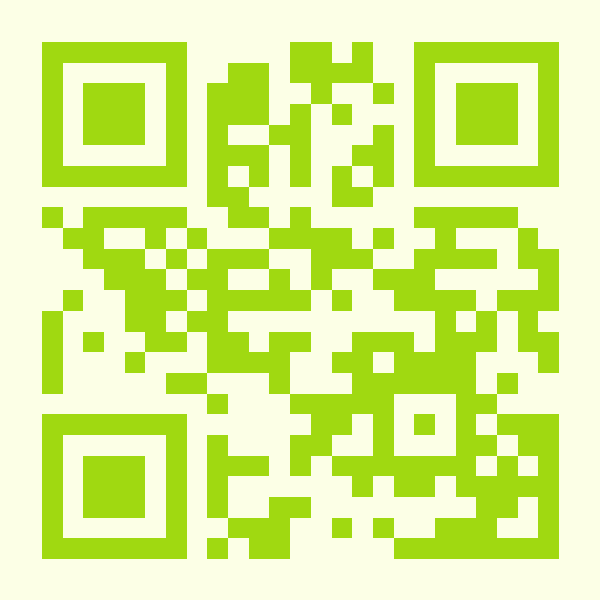
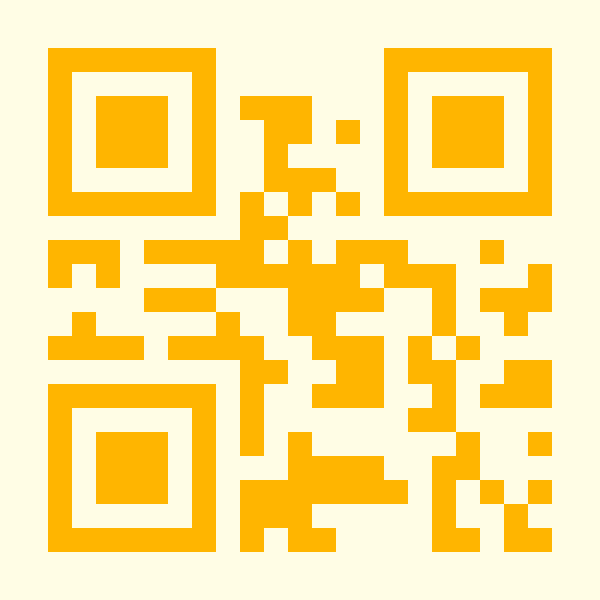
Update the theme

diff --git a/src/App.js b/src/App.js
@@ -50,9 +50,10 @@ function App() {
       <ConfigProvider
         theme={{
           token: {
-            colorPrimary: "#a0d911",
+            colorPrimary: "#FFF100",
             borderRadius: 8,
-            colorBgContainer: "#fcffe6",
+            colorBgContainer: "#fffde5",
+            colorTextLightSolid: "#333",
           },
           algorithm: theme.lightAlgorithm,
         }}
@@ -67,7 +68,7 @@ function App() {
               alt="QR Code Logo"
               style={{
                 height: 40,
-                marginRight: 16,
+                marginRight: 10,
                 background: "#fff",
                 borderRadius: 8,
                 padding: 4,
@@ -89,7 +90,7 @@ function App() {
           <Footer
             style={{
               textAlign: "center",
-              background: "#fcffe6",
+              background: "#fffde5",
               color: "#888",
             }}
           >

diff --git a/src/App.css b/src/App.css
@@ -1,9 +1,11 @@
+@import url("https://fonts.googleapis.com/css2?family=Press+Start+2P&display=swap");
+
 .App .layout {
   min-height: 100vh;
 }
 .App .header {
   text-align: left;
-  background-color: #a0d911;
+  background-color: #fff100;
   color: #fff;
 }
 .App .header .logo {
@@ -11,10 +13,15 @@
   margin-right: 10px;
 }
 .App .header .projecttitle {
-  /* display: inline-block; */
-  color: #fff;
   margin: 0;
-  line-height: 3.2;
+  color: #ffb500;
+  line-height: 1.2;
+
+  font-family: "Press Start 2P", system-ui;
+  font-weight: 400;
+  font-style: normal;
+  font-optical-sizing: auto;
+  font-size: 1.85rem;
 }
 .App .header .projecttitle small {
   font-size: 50%;

diff --git a/src/utils/qrCodeGenerator.js b/src/utils/qrCodeGenerator.js
@@ -75,8 +75,8 @@ export const getDefaultQRCodeOptions = () => ({
   optionImageType: "image/png",
   optionMargin: 2,
   optionQuality: 1,
-  optionDarkColor: "#a0d911",
-  optionLightColor: "#fcffe6",
+  optionDarkColor: "#FFF100",
+  optionLightColor: "#fffde5",
   optionMaskPattern: 2,
   optionWidth: 600,
   errorCorrectionLevel: "M",

diff --git a/src/components/QRCodeTypeSelector.css b/src/components/QRCodeTypeSelector.css
@@ -18,7 +18,7 @@
 }
 
 .qr-type-radio.ant-radio-button-wrapper-checked .qr-type-card {
-  border-color: #a0d911;
+  border-color: #fff100;
   box-shadow: 0 0 8px rgba(160, 217, 17, 0.2);
 }
 
